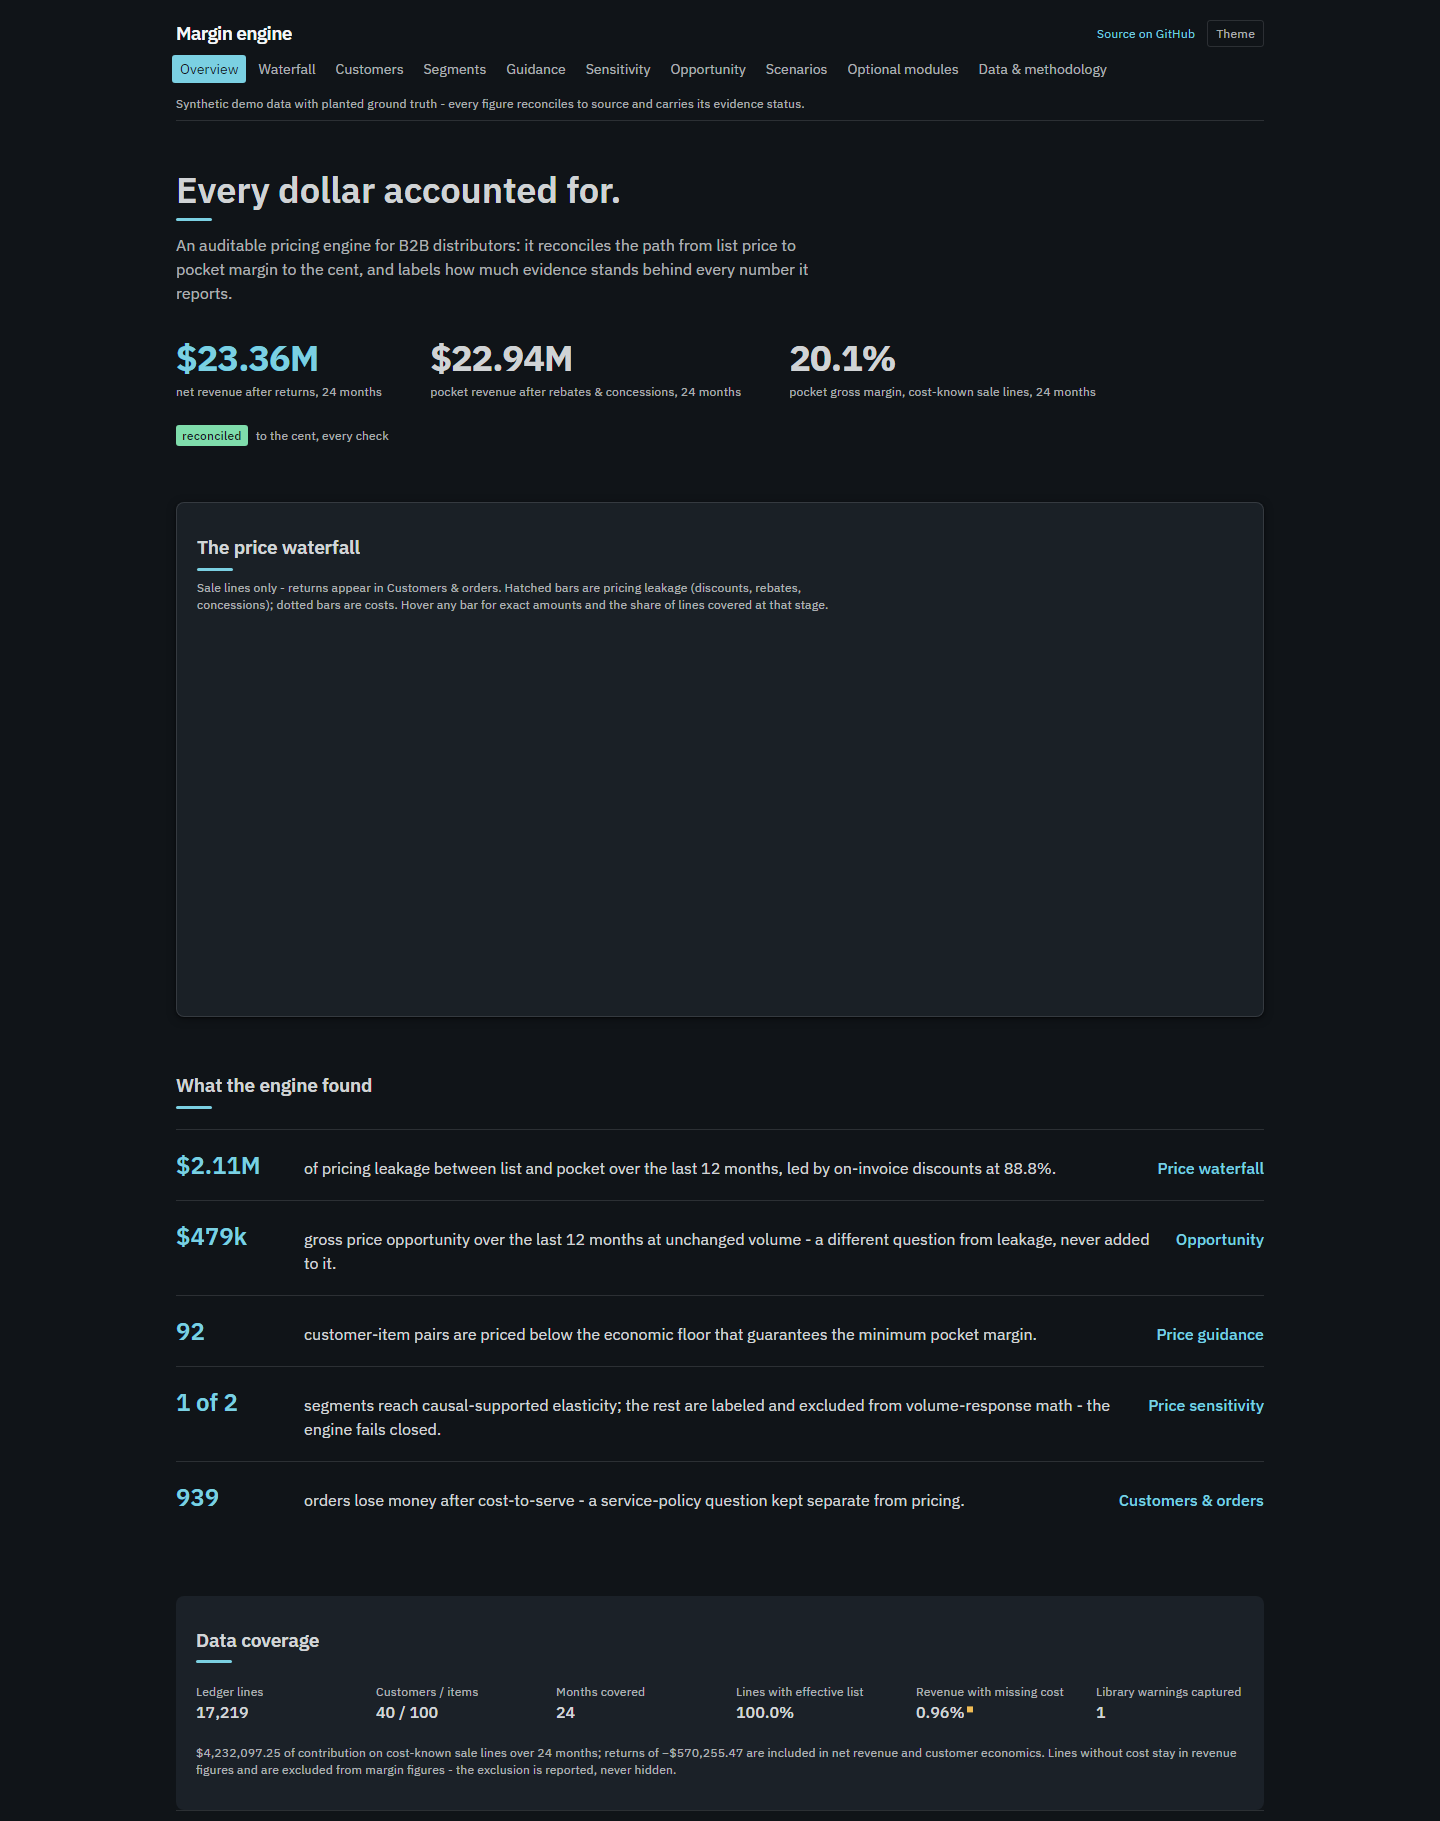
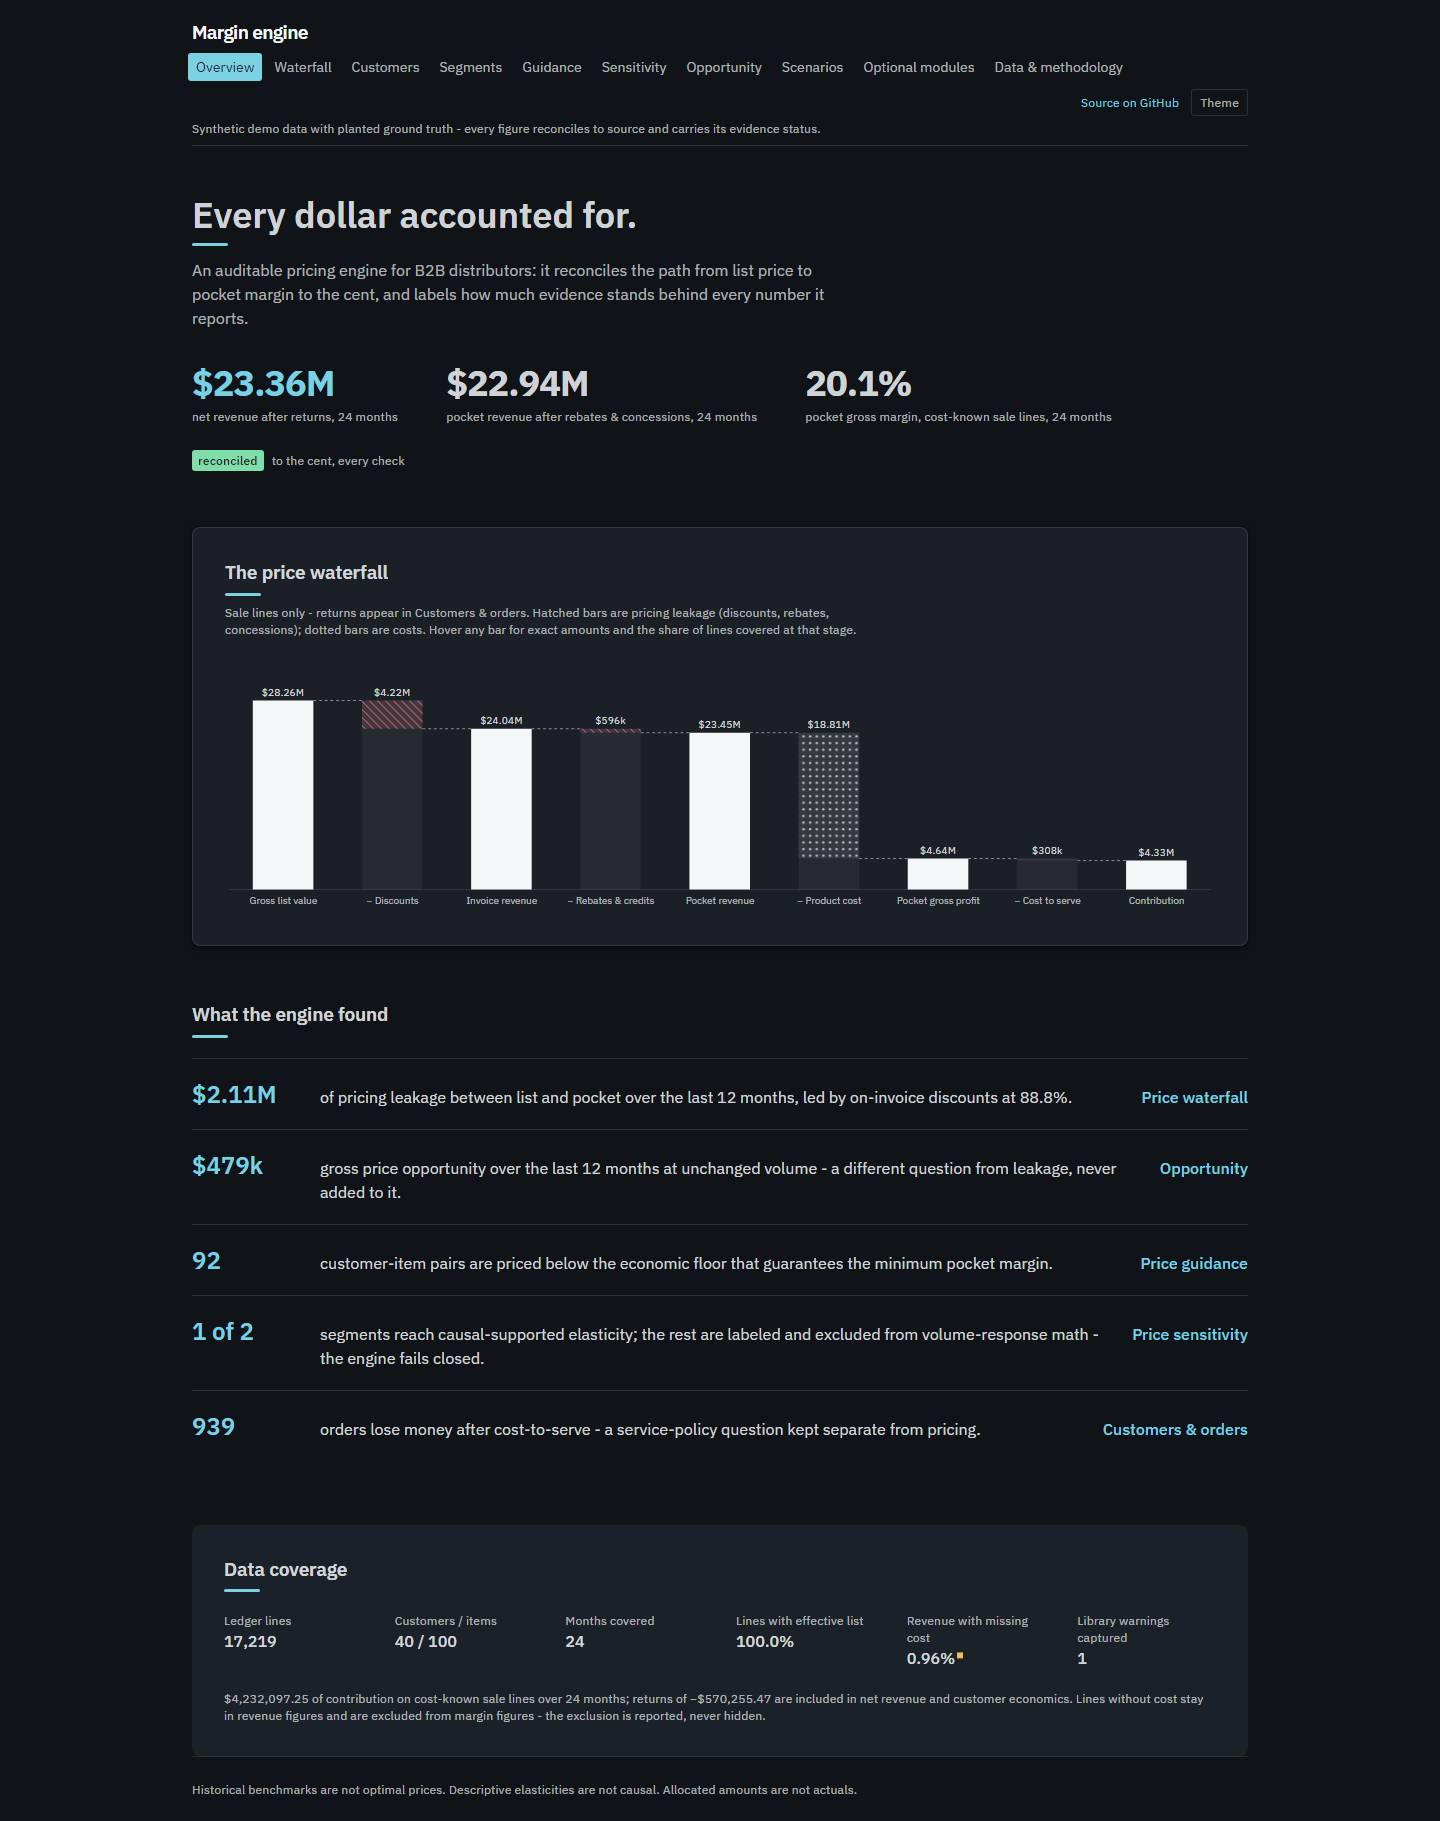
phase-23.1: CI fixes

diff --git a/web/e2e/overview.spec.ts b/web/e2e/overview.spec.ts
@@ -5,7 +5,9 @@
 import AxeBuilder from "@axe-core/playwright";
 import { expect, test } from "@playwright/test";
 
-const REVIEW_DIR = "../docs/ui/review";
+// Test-run screenshots land in an ignored folder; the committed review set in
+// docs/ui/review/ is regenerated only by `npm run review-shots`.
+const SHOT_DIR = "screenshots";
 
 for (const theme of ["light", "dark"] as const) {
   test(`overview renders clean in ${theme} mode`, async ({ page }, testInfo) => {
@@ -38,7 +40,7 @@ for (const theme of ["light", "dark"] as const) {
     ).toHaveLength(0);
 
     await page.screenshot({
-      path: `${REVIEW_DIR}/overview-${theme}-${testInfo.project.name}.png`,
+      path: `${SHOT_DIR}/overview-${theme}-${testInfo.project.name}.png`,
       fullPage: true,
     });
   });

diff --git a/web/vite.config.ts b/web/vite.config.ts
@@ -1,3 +1,4 @@
+/// <reference types="vitest/config" />
 import { defineConfig } from "vite";
 import react from "@vitejs/plugin-react";
 
@@ -6,6 +7,11 @@ import react from "@vitejs/plugin-react";
 export default defineConfig({
   plugins: [react()],
   base: "./",
+  test: {
+    // Unit tests only - Playwright owns e2e/**.
+    include: ["src/**/*.test.{ts,tsx}"],
+    exclude: ["e2e/**", "node_modules/**", "dist/**"],
+  },
   build: {
     sourcemap: false,
     rollupOptions: {

diff --git a/src/margin_engine/extended/quotes.py b/src/margin_engine/extended/quotes.py
@@ -78,7 +78,11 @@ def fit_win_curves(
     segment_leaf. Segments with fewer than min_quotes quotes are
     insufficient_data; fits whose relative standard error exceeds max_rel_se
     are insufficient_precision (both reported, never gated on accuracy)."""
-    import statsmodels.api as sm
+    # Narrow import: statsmodels.api pulls the whole tsa package, whose
+    # compiled extensions a locked-down host (Smart App Control) can block.
+    # Logit is all this module needs.
+    from statsmodels.discrete.discrete_model import Logit
+    from statsmodels.tools import add_constant
 
     q = quotes_indexed.join(segment_of_pair, on=["customer_id", "item_id"], how="left").filter(
         pl.col("segment_leaf").is_not_null()
@@ -105,7 +109,7 @@ def fit_win_curves(
             out.append(wc.to_dict())
             continue
         try:
-            fit = sm.Logit(y, sm.add_constant(x)).fit(disp=0)
+            fit = Logit(y, add_constant(x)).fit(disp=0)
             se = float(fit.bse[1])
             if not np.isfinite(se) or se > 1e3:
                 wc.reasons = "separation: standard errors unbounded"

diff --git a/docs/build-log.md b/docs/build-log.md
@@ -1174,3 +1174,42 @@ Python suite pass (no Python changes).
 
 **Run 3 complete.** HARD STOP: the owner enables GitHub Pages (source:
 GitHub Actions) in repository settings and pushes.
+
+---
+## Phase 23.1 — CI fixes (2026-10-18)
+
+**Deploy failure cause.** The CI unit-test step ran Vitest with its default
+include pattern, which collects e2e/*.spec.ts - Playwright test files that
+cannot run under Vitest. Locally the mistake was masked; in CI it failed the
+step.
+
+**Fixes.**
+1. Vitest scope: vite.config.ts gains a test block - include
+   src/**/*.test.{ts,tsx}, exclude e2e/**, node_modules/**, dist/**.
+   Confirmed by exit code: npm test EXIT=0 with exactly 1 unit test file
+   (5 tests) collected and zero e2e files.
+2. Actions runtime: both workflows updated to the current majors on the
+   Node 24 runtime - checkout@v7, setup-node@v7, setup-uv@v10,
+   upload-pages-artifact@v5, deploy-pages@v5 (verified against each repo's
+   latest release via the GitHub API); runs-on pinned to ubuntu-24.04 in
+   ci.yml and pages.yml; the build's Node bumped 20 -> 24 (20 is EOL).
+3. serve pinned to 14.2.4 in the workflow's Lighthouse step and in
+   lighthouse.mjs's usage note.
+4. Playwright runs no longer touch docs/ui/review/: test screenshots write to
+   the ignored web/screenshots/; the committed review set is regenerated only
+   by the explicit `npm run review-shots` (web/capture-review.mjs), which is
+   now the folder's single writer. Verified: a full Playwright run leaves
+   docs/ui/review/ unmodified in git.
+
+**Additional fix surfaced by the check run.** Smart App Control began
+blocking statsmodels' compiled _ets_smooth extension mid-session (the same
+host policy that previously blocked the pytest and mypy shims), failing the
+suite at import time: `import statsmodels.api` pulls the whole tsa package.
+quotes.py now imports narrowly (statsmodels.discrete.discrete_model.Logit and
+statsmodels.tools.add_constant), avoiding the blocked module and shrinking the
+import surface. No behavior change; the fit call is identical.
+
+**Checks (exit codes).** npm test 0; npm run build 0; npx playwright test 0
+(88 passed); node capture-review.mjs 0; lighthouse.mjs 0
+(100/100/96); ruff 0; ruff format --check 0; mypy 0; workflow YAML parses;
+full pytest suite 0.
